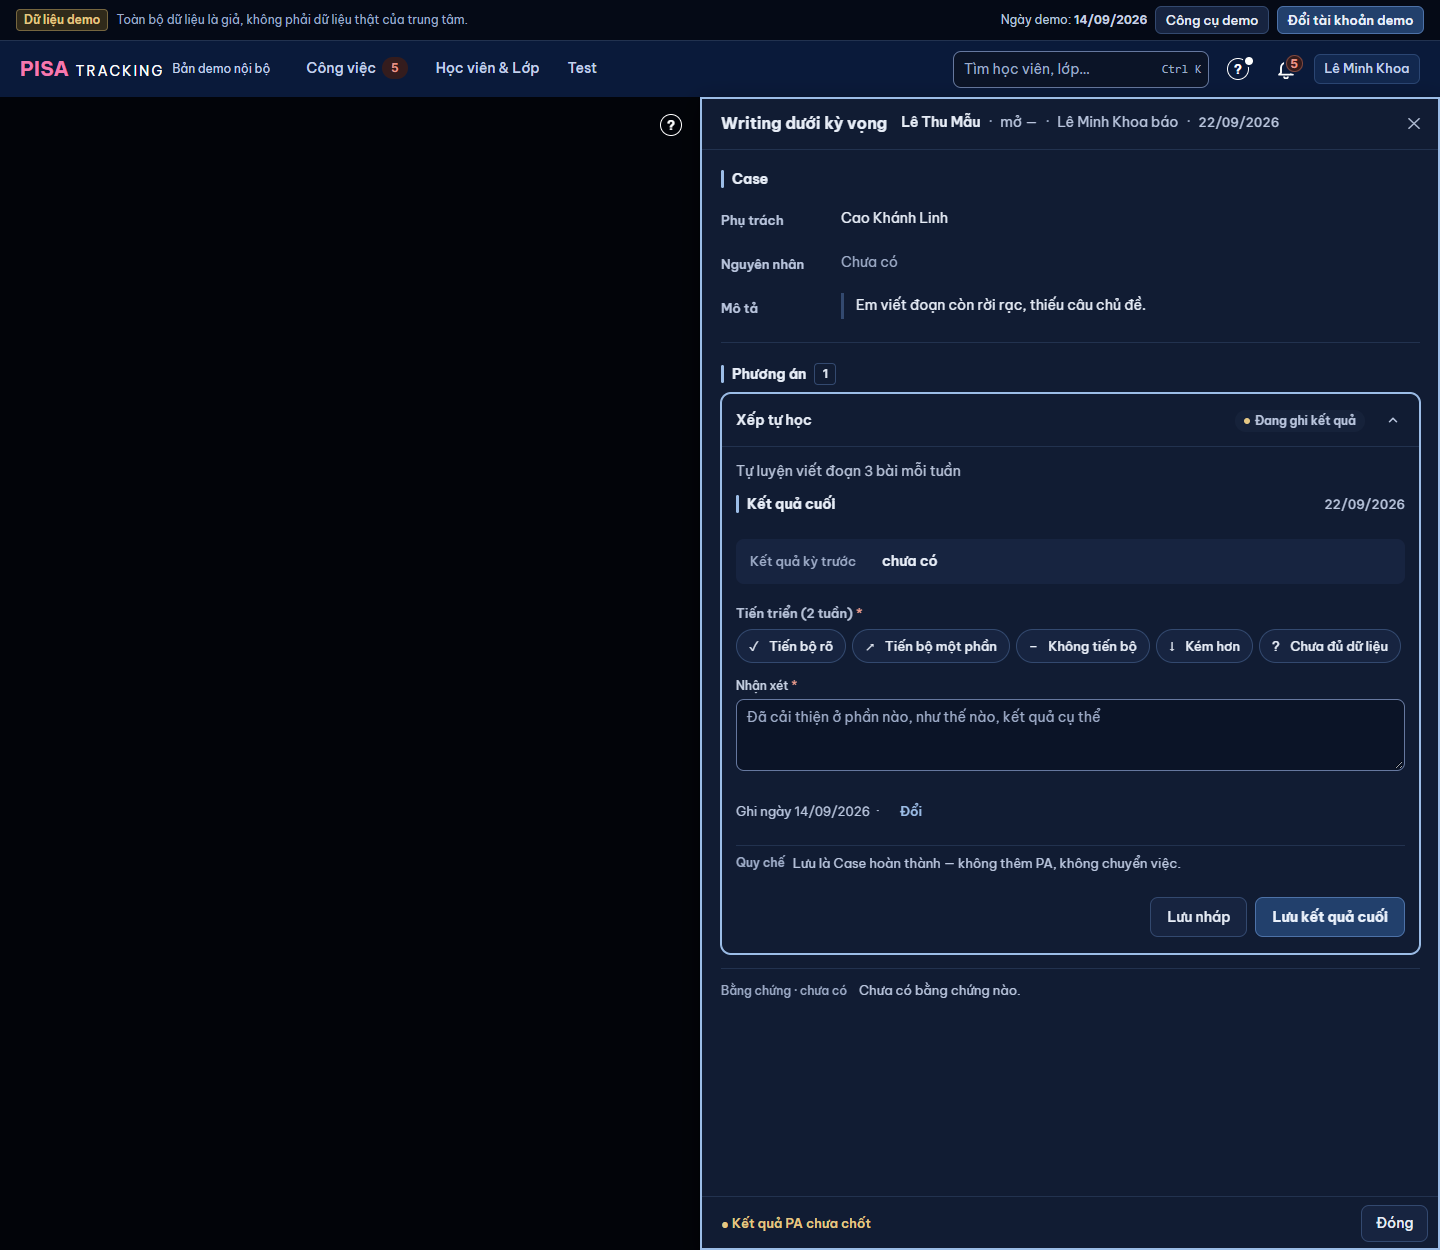
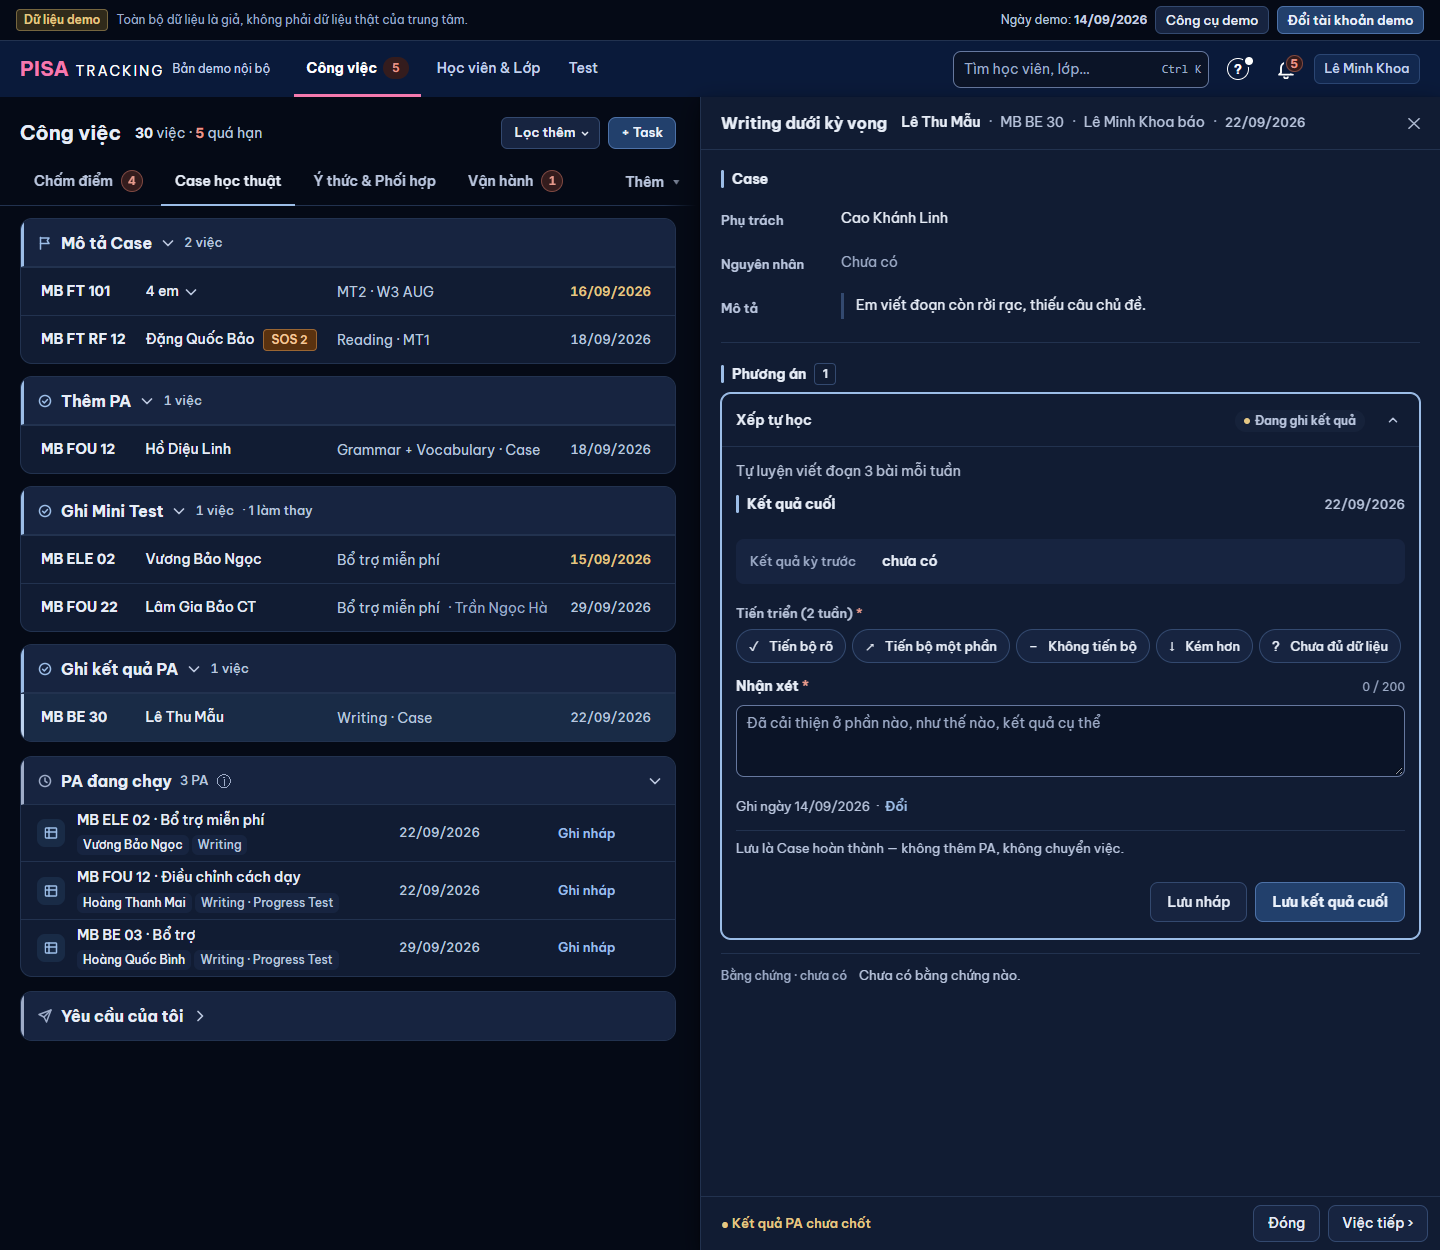
N71: câu hậu quả không nhãn 'Quy chế'; bỏ 'mở —' khi chưa biết tuần mở; chụp lại ảnh từ Công việc
- DongQuyChe nhận nhanQuyChe=false: câu hậu quả GV cũ cùng kiểu dòng, không nhãn Quy chế (nhãn giữ ở dòng là quy chế)
- Đầu Ngăn Case, Case ở hồ sơ lớp, Báo Case nhanh: Case chưa có tuần mở → bỏ hẳn 'mở …', không gạch

diff --git a/web/src/ui/KhungPanel.tsx b/web/src/ui/KhungPanel.tsx
@@ -524,12 +524,13 @@ const NutHdQuyChe = () => (
   <button type="button" className="-m-[15px] cursor-pointer border-0 bg-transparent p-[15px] text-sm font-normal leading-none text-slate-500 hover:text-slate-200 sm:m-0 sm:p-0"
     title={t('Hướng dẫn việc này')} aria-label={t('Hướng dẫn việc này')} onClick={moHuongDan}>ⓘ</button>
 );
-export function DongQuyChe({ qc, px = 'px-4', vien = true }: { qc: { chu: string; chiTiet?: string }; px?: string; /** false: đứng đầu chân (chân đã có vạch trên) — vạch DƯỚI tách khỏi hàng nút. */ vien?: boolean }) {
+export function DongQuyChe({ qc, px = 'px-4', vien = true, nhanQuyChe = true }: { qc: { chu: string; chiTiet?: string }; px?: string; /** false: đứng đầu chân (chân đã có vạch trên) — vạch DƯỚI tách khỏi hàng nút. */ vien?: boolean;
+  /** N71: false = câu hậu quả không phải quy chế (vd GV cũ ghi kết quả cuối Case tự tạo) — cùng kiểu dòng, không nhãn "Quy chế". */ nhanQuyChe?: boolean }) {
   /* HD3-1: "?" đọc câu quy chế đang hiện (dòng gắn sau cùng) cho đầu thẻ việc. */
   useEffect(() => ghiQuyCheMo({ chu: qc.chu, chiTiet: qc.chiTiet }), [qc.chu, qc.chiTiet]);
   return (
     <div data-quy-che className={`flex min-h-9 shrink-0 items-center gap-2 ${vien ? 'border-t' : 'border-b'} ${px} py-1.5 text-[13px] leading-snug text-dim`} style={{ borderColor: 'var(--line)' }}>
-      <span className="shrink-0 text-xs font-semibold text-faint">{t('Quy chế')}</span>
+      {nhanQuyChe && <span className="shrink-0 text-xs font-semibold text-faint">{t('Quy chế')}</span>}
       {/* GD-20c (PTA rà #1738) + PANEL-GON (panel 720): câu xuống dòng đủ chữ, không "…" ở mọi bề rộng. HD3-1 (15 mục 8.1): ⓘ mở panel "?" chồng lên,
           đúng thẻ việc (thẻ có câu này + chi tiết ở đầu) — không còn hộp chữ riêng; ⓘ vẫn chỉ khi có chi tiết. */}
       <span className="min-w-0 flex-1">{qc.chu}</span>

diff --git a/web/src/modules/cases/QuickReport.tsx b/web/src/modules/cases/QuickReport.tsx
@@ -439,7 +439,7 @@ export function QuickReport({
       <div className="rounded-lg border p-3" style={{ borderColor: 'rgb(var(--soon-line-rgb))', background: 'rgb(var(--soon-bg-rgb))' }}>
         <p className="m-0 text-sm text-slate-100">
           {t('Đã có Case')} <strong className="inline-flex max-w-full align-bottom"><TenCase c={{ title: d.title, tenSos: tachTenSos(d.title) }} /></strong> {t('chưa xử lý xong ở {categoryLabel}.', { categoryLabel: topicLabel(kn) })}
-          <span className="text-slate-400"> {t('Mở {tuanLich}{x}.', { tuanLich: tuanLich(d.detectedAt, homNay), x: d.soPa > 0 ? ` · ${d.soPa} PA` : t(' · chưa có PA') })}</span>
+          {d.detectedAt && <span className="text-slate-400"> {t('Mở {tuanLich}{x}.', { tuanLich: tuanLich(d.detectedAt, homNay), x: d.soPa > 0 ? ` · ${d.soPa} PA` : t(' · chưa có PA') })}</span>}
         </p>
         <div className="mt-2 grid gap-2 sm:grid-cols-2" role="group" aria-label={t('Case đang có')}>
           <NutChon chon={gop === 'ghi-vao'} className="justify-center" onClick={() => sua(kn, { gop: 'ghi-vao' })}>{t('Ghi vào Case đang có')}</NutChon>

diff --git a/web/src/modules/classes/BangHoSoLop.tsx b/web/src/modules/classes/BangHoSoLop.tsx
@@ -481,7 +481,7 @@ function TomTatKn({ r, kn, ca, ds, diemDv, coTheBaoCase, onChiTiet, onThemCase }
             <>
               {/* Mockup `.ba-cot`: giá trị = nguyên nhân chính (600 15 trắng); chưa tải / không có → tên Case. */}
               <span className="text-[14px] font-semibold text-slate-100">{dich(ct.data?.issues.find((i: any) => i.role === 'primary')?.label ?? ca.title).replace(' - ', ' · ')}</span>
-              <span className="text-[13px] text-dim">{t('Case mở {tuan}', { tuan: tuanLich(ca.detectedAt, homNay) })}</span>
+              {ca.detectedAt && <span className="text-[13px] text-dim">{t('Case mở {tuan}', { tuan: tuanLich(ca.detectedAt, homNay) })}</span>}
               {ct.error ? null : !ct.data ? <Skeleton rows={1} /> : pa.length ? pa.slice(0, 2).map((iv: any) => (
                 <Fragment key={iv.id}>
                   <span className="mt-1 text-[14px] font-semibold text-slate-100">{dich(INTERVENTION_KIND_LABEL[iv.kind as keyof typeof INTERVENTION_KIND_LABEL] ?? iv.kind)}</span>

diff --git a/web/src/modules/cases/CapNhatTuan.tsx b/web/src/modules/cases/CapNhatTuan.tsx
@@ -712,7 +712,7 @@ export function GhiKetQuaPanel({ pa, sua, hocVien, lop, em, studentId, ngCanh, b
             </p>
           )}
           {/* GD-3 / GD-4b: dòng quy chế (mockup v21 K4c) ngay trên hàng nút — chân v3 để nút trong thân; câu đổi theo Quyết định (Q20–Q26). Sửa: không có câu. */}
-          {!sua && <DongQuyChe px="px-0" qc={quyCheGhiKetQua({ han: pa.actionDue ? ngan(pa.actionDue) : null, decision, deXuat,
+          {!sua && <DongQuyChe px="px-0" nhanQuyChe={!pa.gvCuCuoi} qc={quyCheGhiKetQua({ han: pa.actionDue ? ngan(pa.actionDue) : null, decision, deXuat,
             lanCuoi, batBuoc: !!pa.batBuoc, ketThucSom, sapToi: sapToiHan, miniTest: coMiniTest || !!pa.miniTestHan, htCase: hoanThanhCase && ketThucPa ? htCase : undefined,
             gvCu: !pa.gvCuCuoi ? undefined : pa.gvCuDongCase && outcome !== 'insufficient' ? 'case' : 'pa' })} />}
           <div className="flex flex-wrap items-center justify-end gap-2 pt-0.5 max-sm:hidden"><NutDongPanel busy={busy} />{nutNhap}{nut}</div>

diff --git a/web/src/modules/students/NganCase.tsx b/web/src/modules/students/NganCase.tsx
@@ -126,7 +126,7 @@ function ThanNganCase({ caseId, paId, viec, viecBanDau, paViec = null, hocVien, 
     dong2: [
       em ? <Link className="font-semibold text-slate-100 no-underline hover:underline" to={duongHoSoHocVien(em.id)}>{em.ten}</Link> : hocVien ?? null,
       lop ?? null,
-      t('mở {tuan}', { tuan: tuanLich(data.detectedAt, homNay) }),
+      data.detectedAt ? t('mở {tuan}', { tuan: tuanLich(data.detectedAt, homNay) }) : null,   // chưa biết tuần mở → bỏ hẳn, không "mở —"
       data.reportedBy ? t('{ten} báo', { ten: data.reportedBy }) : null,
     ].filter(Boolean) as ReactNode[],
   };
